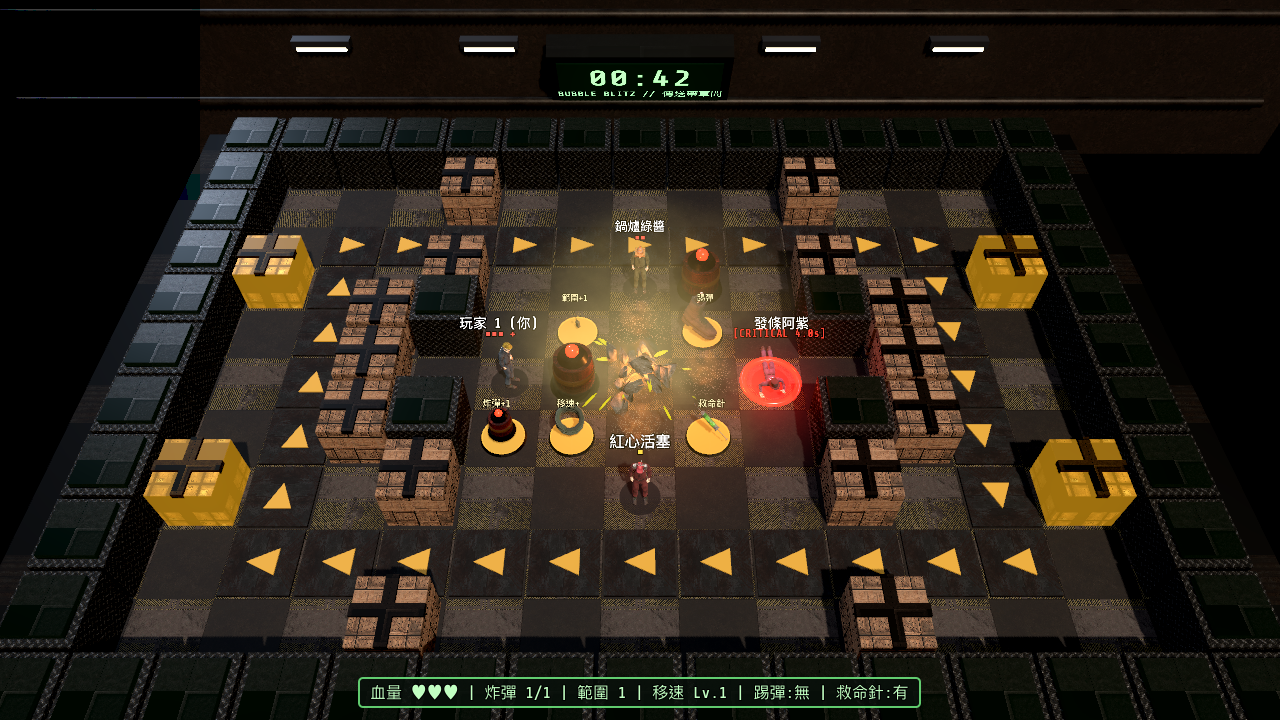
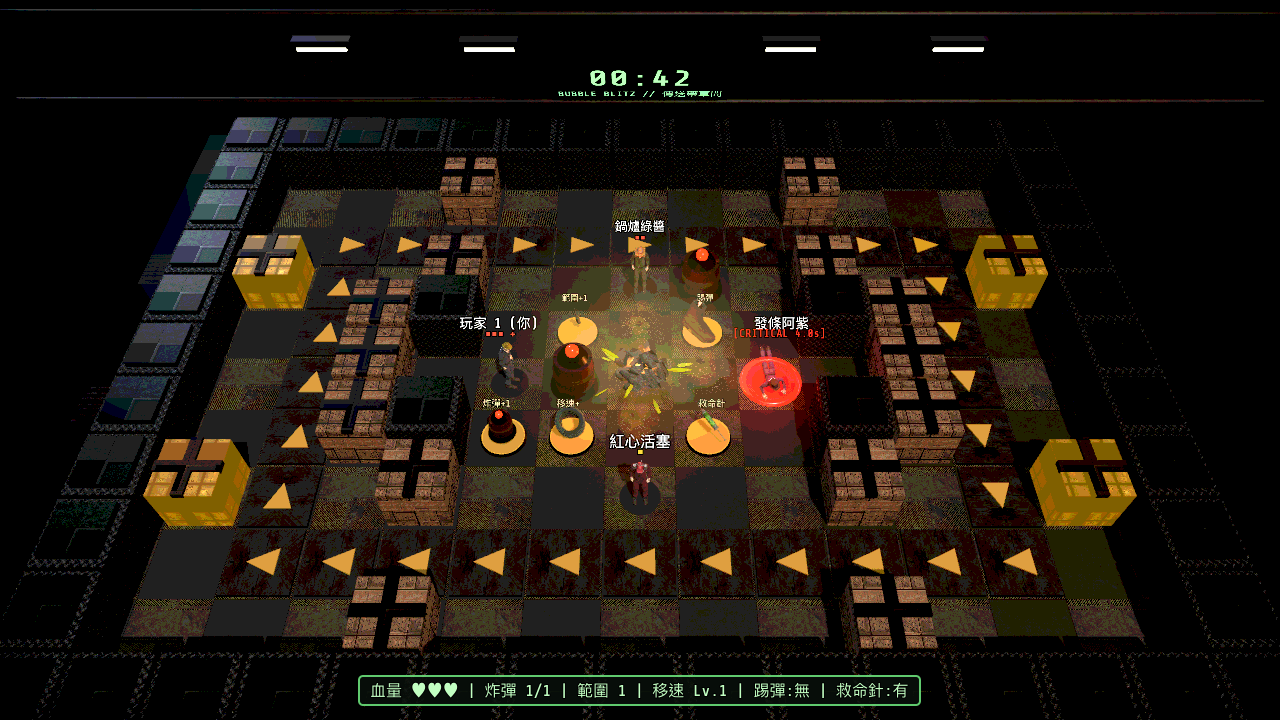
Release Bubble Blitz v0.1.2: fix HudRoot centering and full-screen PostFX BackBufferCopy

diff --git a/apps/desktop/src-tauri/src/catalog.rs b/apps/desktop/src-tauri/src/catalog.rs
@@ -558,7 +558,7 @@ mod tests {
             .package
             .as_ref()
             .expect("bubble-blitz package present");
-        assert_eq!(bubble_pkg.filename, "bubble-blitz-0.1.1.zip");
+        assert_eq!(bubble_pkg.filename, "bubble-blitz-0.1.2.zip");
         assert!(bubble_pkg.mirror_approved);
         assert!(bubble.adapter.as_ref().unwrap().auto_loader);
         assert_eq!(

diff --git a/mods/bubble-blitz/README.md b/mods/bubble-blitz/README.md
@@ -5,7 +5,7 @@
 ![泡泡爆破小游戏图示](../../apps/desktop/ui/images/bubble-blitz.png)
 
 - **模组 ID**：`bubble-blitz`
-- **版本**：`0.1.1`（目录清单对应 `v0.1.1`）
+- **版本**：`0.1.2`（目录清单对应 `v0.1.2`）
 - **授权**：`GPL-3.0-only`
 - **目标游戏版本**：Steam Windows `v2.1.2`
 - **开发与打包规范**：[自研模组开发、测试、接入与打包规范](../../docs/zh-CN/development/mod-development.md) · [ADR-009](../../docs/zh-CN/architecture/ADR-009-bundled-first-party-mods.md) · [ADR-015](../../docs/zh-CN/architecture/ADR-015-multi-minigame-hub.md)
@@ -13,30 +13,31 @@
 ## 核心玩法与预置规则（开箱即玩）
 
 - **3 滴血结合版机制**：
-  - 每名玩家开局拥有 **3 HP**。前 2 次被高压水柱击中时扣除 1 HP 并触发 **1.5 秒无敌闪烁**（防连锁水柱瞬秒）。
-  - 最后 1 HP 归零时进入经典泡泡堂**水泡困住状态**（持续 **4 秒**，移速大幅降低）：
-    - 期间被任意对手撞到即**立刻戳破淘汰**；
-    - 若持有稀有被动道具**救命针（Needle）**，进水泡 1.5 秒内未被戳破将**自动扎破脱困并恢复 1 HP**；
-    - 超时或再次被水柱波及则爆裂淘汰。
+  - 每名玩家开局拥有 **3 HP**（初始 1 个炸弹、1 格范围）。前 2 次被爆炸波击中时扣除 1 HP、触发原版喷血与 **1.5 秒无敌闪烁**。
+  - 最后 1 HP 归零时进入 **4 秒重伤濒死状态**（原版倒地爬行动作 + 脚下红光警戒环）：
+    - 期间被任意对手撞到即**立刻血雾处决淘汰**；
+    - 若持有稀有被动道具**救命针（原版发光注射器）**，倒地 1.5 秒内未被处决将**自动自救恢复 1 HP**；
+    - 4 秒超时或再次被爆炸波及则直接淘汰。
 - **4 套随机多变地图（每局不同）**：
-  - 房主每局随机抽取主题与种子，四象限对称生成可炸箱子与隐藏道具，并强制保留每位玩家出生点周围的 L 形 3 格逃生安全区：
+  - 房主每局随机抽取主题与种子，四象限对称生成原版木箱/金箱与隐藏道具，并强制保留每位玩家出生点周围的 L 形 3 格逃生安全区：
     1. **经典车间（Classic Grid）**：标准间隔铆钉铁柱与对称木箱。
     2. **十字通道（Cross Factory）**：中央宽阔十字大道，快速交火。
     3. **中央金库（Loot Vault）**：中心 3×3 高价值金箱（必掉强力道具），四周铁柱掩护。
-    4. **传送带车间（Conveyor Belt）**：循环工业传送带，放到上面的水泡会顺着轨道自动滑向对面。
+    4. **传送带车间（Conveyor Belt）**：循环工业传送带，放到上面的炸弹会顺着轨道自动滑向对面。
 - **动态人数自适应（2–16 人）**：
   - 2–4 人使用 `15×11` 竞技场，5–8 人扩展为 `17×13`，9–16 人扩展为 `19×15`。
-- **道具池与 25 秒压板缩圈**：
-  - 炸开木箱/金箱掉落 5 种道具：`泡泡+1`、`威力+1`、`移速+1`、`踢泡泡`（被动撞击踢飞水泡）、`救命针`（稀有被动脱困）。
-  - 单局 75 秒，最后 25 秒外圈螺旋落下重型工业压板缩圈（压板无视血量秒杀）。
-- **综合计分**：按存活时间与主动困住/戳破对手次数综合排序，提交官方排名积分。
+- **原版 3D 道具池、临爆动画与 25 秒压板缩圈**：
+  - 炸开木箱/金箱掉落 5 种复用原版 3D 模型的工业道具（带顶部 `Terminal F4` 标签）：`炸弹+1`（迷你压力罐）、`范围+1`（原版引爆器）、`移速+`（原版机械弹簧）、`踢弹`（原版大皮靴，被动撞击踢飞炸弹）、`救命针`（原版发光针筒）。
+  - 炸弹临近引爆前通过脉动加速、充气膨胀、高频抖动与警示灯急闪直观预警；引爆时释放原版地雷爆炸粒子、烟尘与地面焦痕。
+  - 底部提供仅自己可见的自适应居中 CRT 属性栏；单局 75 秒，最后 25 秒外圈螺旋落下重型工业压板缩圈（压板无视血量秒杀）。
+- **综合计分**：按存活时间与主动击倒/处决对手次数综合排序，提交官方排名积分。
 
 ## 操作按键
 
 | 按键 | 功能 |
 | --- | --- |
-| `W / A / S / D` 或方向键 | 四方向移动（带拐角辅助对齐；拾取「踢泡泡」后撞向水泡即可踢滑） |
-| `Space`（空格） | 放置高压水泡（2.4 秒后十字引爆，支持连锁引爆） |
+| `W / A / S / D` 或方向键 | 四方向移动（满速贴墙滑行 + 单轴拐角辅助对齐；拾取「踢弹」后撞向炸弹即可踢飞） |
+| `Space`（空格） | 放置工业压力炸弹（2.4 秒后十字引爆，支持连锁引爆） |
 
 ## 文件结构
 

diff --git a/docs/readme/README.zh-TW.md b/docs/readme/README.zh-TW.md
@@ -84,7 +84,7 @@ Steam 目錄自動偵測 · 離線快取與還原 · 简体中文 / 繁體中文
 | [Lobby Bots](https://github.com/JamesGZM/machine-party-mod-manager/tree/main/mods/lobby-bots) | `v0.2.2` | 房主可加入或移除預設就緒的測試機器人。 | 原生 MPML |
 | [獨立高清](https://github.com/JamesGZM/machine-party-mod-manager/tree/main/mods/standalone-hd) | `v0.1.1` | 提高 3D 渲染清晰度，保留視窗模式與 HUD 配置 | 原生 MPML |
 | [玩家聚光燈](https://github.com/JamesGZM/machine-party-mod-manager/tree/main/mods/player-spotlight) | `v0.1.0` | 在所有 3D 小遊戲中只為自己點亮頭頂工業聚光燈 | 原生 MPML |
-| [泡泡爆破](https://github.com/JamesGZM/machine-party-mod-manager/tree/main/mods/bubble-blitz) | `v0.1.1` | 3 滴血結合版泡泡堂小遊戲，4 套隨機地圖與傳送帶互坑 | 原生 MPML |
+| [泡泡爆破](https://github.com/JamesGZM/machine-party-mod-manager/tree/main/mods/bubble-blitz) | `v0.1.2` | 3 滴血結合版泡泡堂小遊戲，4 套隨機地圖與傳送帶互坑 | 原生 MPML |
 
 驗收清單、上游授權邊界與互斥群組規則詳見[候選模組與收錄規範](../zh-TW/catalog/mods.md)。
 

diff --git a/README.md b/README.md
@@ -84,7 +84,7 @@ The table lists the versions in this repository’s [catalog](catalog/mods.json)
 | [Lobby Bots](https://github.com/JamesGZM/machine-party-mod-manager/tree/main/mods/lobby-bots) | `v0.2.2` | Add or remove ready bots in online rooms. | Native MPML |
 | [Standalone HD](https://github.com/JamesGZM/machine-party-mod-manager/tree/main/mods/standalone-hd) | `v0.1.1` | Sharper 3D rendering with the existing window and HUD layout | Native MPML |
 | [Player Spotlight](https://github.com/JamesGZM/machine-party-mod-manager/tree/main/mods/player-spotlight) | `v0.1.0` | Local-only overhead industrial spotlight on your own character across 3D minigames | Native MPML |
-| [Bubble Blitz](https://github.com/JamesGZM/machine-party-mod-manager/tree/main/mods/bubble-blitz) | `v0.1.1` | Fast 3-HP hybrid water-bubble arena across 4 randomized maps | Native MPML |
+| [Bubble Blitz](https://github.com/JamesGZM/machine-party-mod-manager/tree/main/mods/bubble-blitz) | `v0.1.2` | Fast 3-HP hybrid water-bubble arena across 4 randomized maps | Native MPML |
 
 See [candidate mods and inclusion rules](docs/en/catalog/mods.md) for acceptance checklists, upstream licensing notes and conflict groups.
 

diff --git a/docs/readme/README.zh-CN.md b/docs/readme/README.zh-CN.md
@@ -84,7 +84,7 @@ Steam 目录自动检测 · 离线缓存与还原 · 简体中文 / 繁體中文
 | [Lobby Bots](https://github.com/JamesGZM/machine-party-mod-manager/tree/main/mods/lobby-bots) | `v0.2.2` | 房主可添加或移除默认就绪的测试机器人。 | 原生 MPML |
 | [独立高清](https://github.com/JamesGZM/machine-party-mod-manager/tree/main/mods/standalone-hd) | `v0.1.1` | 提高 3D 渲染清晰度，保留窗口模式和 HUD 布局 | 原生 MPML |
 | [玩家聚光灯](https://github.com/JamesGZM/machine-party-mod-manager/tree/main/mods/player-spotlight) | `v0.1.0` | 在所有 3D 小游戏中只为自己点亮头顶工业聚光灯 | 原生 MPML |
-| [泡泡爆破](https://github.com/JamesGZM/machine-party-mod-manager/tree/main/mods/bubble-blitz) | `v0.1.1` | 3 滴血结合版泡泡堂小游戏，4 套随机地图与传送带互坑 | 原生 MPML |
+| [泡泡爆破](https://github.com/JamesGZM/machine-party-mod-manager/tree/main/mods/bubble-blitz) | `v0.1.2` | 3 滴血结合版泡泡堂小游戏，4 套随机地图与传送带互坑 | 原生 MPML |
 
 验收清单、上游授权边界与互斥组规则详见[候选模组与收录规范](../zh-CN/catalog/mods.md)。
 

diff --git a/mods/README.md b/mods/README.md
@@ -16,7 +16,7 @@ This directory holds GDScript mods authored in `machine-party-mod-manager`. Ever
 | `lobby-bots` | Lobby Bots (房間機器人) | `0.2.2` | `lobby-bots-0.2.2.zip` | Steam `v2.1.2` | Pending physical Windows test | [Lobby Bots](lobby-bots/README.md) |
 | `standalone-hd` | Standalone HD (獨立高清) | `0.1.1` | `standalone-hd-0.1.1.zip` | Steam `v2.1.2` | Pending physical Windows test | [Standalone HD](standalone-hd/README.md) |
 | `player-spotlight` | Player Spotlight (玩家聚光燈) | `0.1.0` | `player-spotlight-0.1.0.zip` | Steam `v2.1.2` | Pending physical Windows test | [Player Spotlight](player-spotlight/README.md) |
-| `bubble-blitz` | Bubble Blitz (泡泡爆破) | `0.1.1` | `bubble-blitz-0.1.1.zip` | Steam `v2.1.2` | Verified on Windows Steam | [Bubble Blitz](bubble-blitz/README.md) |
+| `bubble-blitz` | Bubble Blitz (泡泡爆破) | `0.1.2` | `bubble-blitz-0.1.2.zip` | Steam `v2.1.2` | Verified on Windows Steam | [Bubble Blitz](bubble-blitz/README.md) |
 
 ## Deterministic ZIP packaging rules
 
